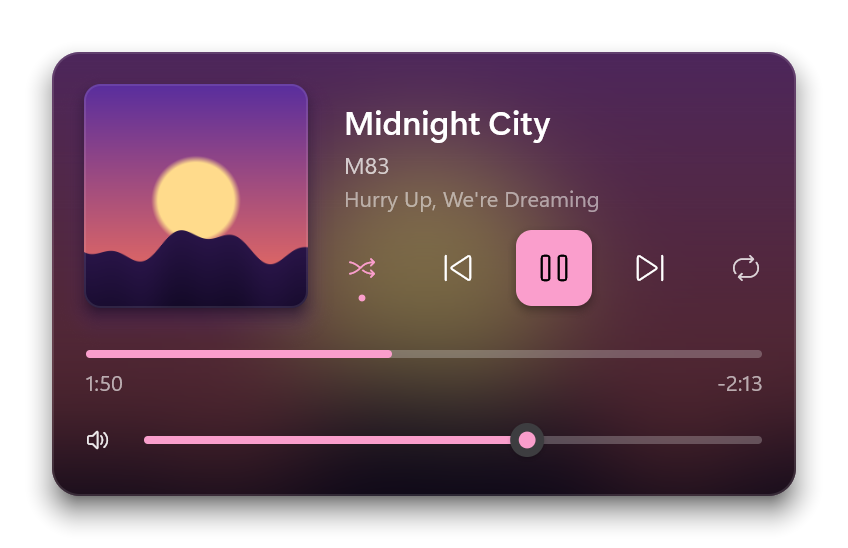
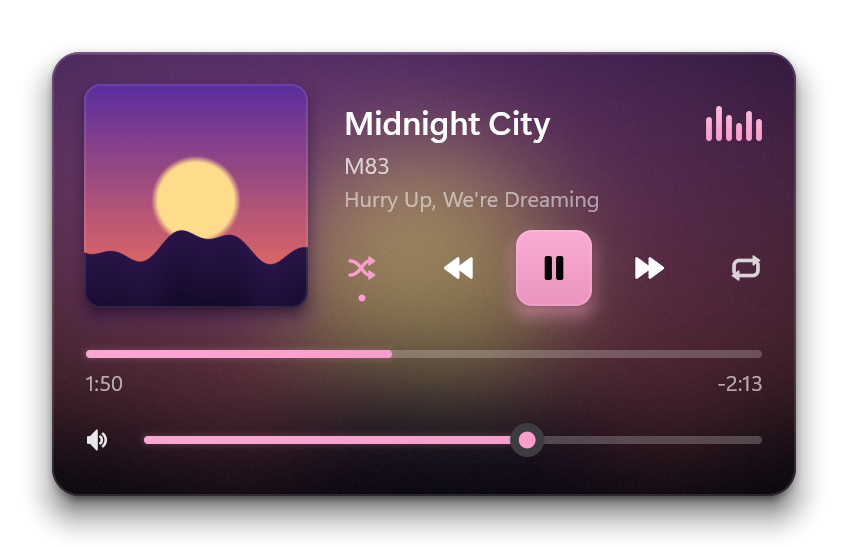
docs: visual novo, fundos da capa, atalhos, arrastar e YouTube Music
README com os fundos fortes do widget, os ícones preenchidos, as barras
no card, os atalhos escolhidos e posicionados, o widget arrastável, o
aleatório/repetir pelo YouTube Music do navegador e o card parado sem
redesenhar (com os números medidos). Capturas e GIF refeitos com o
visual novo.

diff --git a/README.md b/README.md
@@ -23,10 +23,11 @@ No Mac, o mesmo app vive no **notch do MacBook** ([veja a seção do Mac](#mac-m
 </p>
 
 **Widget da barra**: tudo dentro do mesmo fundo — capa, música, indicador e, se quiser, os
-botões (aleatório, anterior, play, próximo, repetir), em formato arredondado, pílula ou reto:
+botões (aleatório, anterior, play, próximo, repetir), em formato arredondado, pílula ou reto,
+com fundo discreto ou tomado pela cor da capa (gradiente ou a própria capa desfocada):
 
 <p align="center">
-  <img src="docs/screenshots/taskbar-widgets.png" width="420" alt="Quatro variações do widget da barra: só a música; com os botões (padrão); em pílula com aleatório e repetir; reto e neutro, com o play só no ícone">
+  <img src="docs/screenshots/taskbar-widgets.png" width="420" alt="Seis variações do widget da barra: só a música; com os botões (padrão); em pílula com aleatório e repetir; reto e neutro, com os ícones de contorno; com o gradiente da capa; em pílula com a capa desfocada">
 </p>
 
 **Card expandido** em três estilos: capa desfocada, cor do álbum e acrílico (desfoca o que está atrás).
@@ -66,28 +67,46 @@ Aviso de teclas com fundo **sólido**, **acrílico** ou na **cor de destaque**, 
   opcionais), com separador, play preenchido ou só ícone e formato do fundo
   (arredondado, pílula, reto); dá para deixá-los só no card. Dá para escolher a
   segunda linha (artista, artista · álbum, álbum ou tempo), o tamanho da capa e
-  do texto, a cor do fundo (neutra, da capa ou de destaque), a opacidade e o
-  contorno. Ao trocar de música, o título novo desliza e a capa nova aparece
-  suavemente (opcional). Com o botão de Widgets do Windows (o do tempo) na barra,
-  o widget fica ao lado dele em vez de por cima, com a barra centralizada ou
+  do texto, a cor do fundo (neutra, da capa ou de destaque, com opacidade), e
+  dois fundos fortes: **gradiente da capa** (tons profundos na barra escura,
+  pastéis na clara, com brilho atrás da capa) e **capa desfocada**, com
+  intensidade própria; o texto e os ícones se ajustam para ficar legíveis, e o
+  fundo troca suavemente junto com a música. Ao trocar de música, o título novo
+  desliza e a capa nova aparece suavemente (opcional). **Arraste o widget** pela
+  barra para mudar o lugar dele (clique simples continua abrindo o card; nunca
+  passa da bandeja nem fica sobre o botão Iniciar; "Restaurar posição" volta ao
+  lado do relógio). Com o botão de Widgets do Windows (o do tempo) na barra, o
+  widget fica ao lado dele em vez de por cima, com a barra centralizada ou
   alinhada à esquerda. No fundo em pílula, a capa fica sempre dentro da ponta
   arredondada.
+- **Ícones preenchidos**: play, pausa, pular, aleatório, repetir e volume
+  desenhados como formas cheias e arredondadas (no card e na barra), no lugar
+  dos ícones finos de contorno; dá para voltar ao contorno do Fluent (Card
+  expandido > Estilo dos ícones).
 - **Card expandido** (clique na música): capa grande, aleatório / anterior / play /
   próximo / repetir, barra de progresso arrastável e volume. O app de origem
   (Spotify, Brave…) fica escondido por padrão; com a opção "Mostrar app de
   origem", aparece como selo (ícone + nome) no card e no "A seguir", e como um
   selo recortado no canto da capa na barra.
-  Fundo **capa desfocada**, **cor do álbum** ou **acrílico** (vidro fosco que
-  desfoca o que está atrás); layout horizontal ou vertical; tema; cor de destaque
-  (capa ou Windows); cantos; formato do play. Mostra também o álbum, quando o
-  player informa. Aleatório e repetir aparecem sempre (apagados nos players que
-  não deixam mudar pelo Windows, como os navegadores; clicar traz o player para a
-  frente, para usar o botão dele)
-  ou só quando o player permite.
-- **Atalhos dos apps de música** (opcional, ligado por padrão): embaixo do card,
-  o ícone de cada player instalado (Spotify, YouTube Music instalado pelo
-  navegador, Apple Music, Deezer, TIDAL, Amazon Music, Media Player, VLC,
-  foobar2000…) para abrir com um clique, inclusive quando nada está tocando.
+  Fundo **capa desfocada** (com luz da cor da capa, vinheta e granulado), **cor
+  do álbum** ou **acrílico** (vidro fosco que desfoca o que está atrás); play com
+  brilho na cor de destaque; mini **barras de áudio** ao lado do título (Barras
+  no card); layout horizontal ou vertical; tema; cor de destaque (capa ou
+  Windows); cantos; formato do play. Mostra também o álbum, quando o player
+  informa. Aleatório e repetir aparecem sempre ou só quando o player permite. No
+  **YouTube Music do navegador** (app instalado pelo Brave/Chrome/Edge ou aba),
+  que não deixa o Windows mudar isso, o Taskbeat aperta os botões da própria
+  página, sem trazer a janela para a frente, e lê o estado do repetir (desativado
+  → tudo → uma); o aleatório do YouTube Music embaralha a fila de novo a cada
+  clique. Nos outros sites os botões ficam apagados e o clique traz o player para
+  a frente.
+- **Atalhos dos apps de música** (opcional, ligado por padrão): o ícone de cada
+  player instalado (Spotify, YouTube Music instalado pelo navegador, Apple Music,
+  Deezer, TIDAL, Amazon Music, Media Player, VLC, foobar2000…) para abrir com um
+  clique, inclusive quando nada está tocando. Embaixo do card, dentro do widget
+  na barra ou nos dois; em Card expandido > Apps nos atalhos dá para ligar só os
+  que você usa e arrastar para mudar a ordem (no card também dá para arrastar os
+  ícones).
 - **Ícones animados** (opcional, ligado por padrão): play e pausa trocam com um
   pequeno salto, anterior/próximo dão um empurrão para o lado, aleatório pulsa,
   repetir dá uma volta e o volume chacoalha ao ficar mudo; no card e na barra
@@ -120,9 +139,9 @@ Aviso de teclas com fundo **sólido**, **acrílico** ou na **cor de destaque**, 
 
 Funciona com qualquer player que publique no painel de mídia do Windows (SMTC):
 Spotify, YouTube / YouTube Music no navegador, Apple Music, Deezer, TIDAL, VLC,
-Media Player… Aleatório/repetir só aparecem em players que os expõem ao Windows
-(ex.: Spotify, Media Player). Navegadores (Brave, Chrome, Edge, Firefox) não expõem
-esses comandos, então os botões somem nesse caso.
+Media Player… Aleatório/repetir vêm do Windows nos players que os expõem (ex.:
+Spotify, Media Player). Navegadores (Brave, Chrome, Edge, Firefox) não expõem
+esses comandos; no YouTube Music o Taskbeat usa os botões da página (veja acima).
 
 ## Desempenho
 
@@ -131,6 +150,7 @@ Pensado para PCs modestos (medido no build release, i5-10400F):
 | Situação | CPU | RAM (working set) |
 |---|---|---|
 | Música pausada, padrão | ~0,2% de 1 núcleo | ~5 MB após assentar |
+| Card aberto, parado | ~0,6% de 1 núcleo (antes ~78%: era redesenhado a cada quadro) | ~16 MB |
 | Configurações abertas, paradas | ~0,2–2% de 1 núcleo (conforme a prévia; pausada, ~0,2%) | ~30 MB (volta a ~8 MB ao fechar) |
 | Configurações rolando (60 fps) | ~10% de 1 núcleo | — |
 | Barras dinâmicas ligadas | ~0,2–0,5% de 1 núcleo | ~12 MB |
@@ -140,7 +160,8 @@ Como:
 - Captura de áudio (WASAPI) **só com o visualizador ligado**.
 - Mídia **orientada a eventos** do Windows (troca de sessão/música/play-pause), com checagem de segurança a cada 2 s.
 - Threads de segundo plano em **EcoQoS** + prioridade abaixo do normal (Windows 11 usa núcleos/frequências econômicos).
-- O widget **não redesenha quando nada muda**; repouso a 4 fps; 30 fps só para o indicador/letreiro; animações no **ritmo do monitor** (vblank, sem engasgos), e só enquanto animam.
+- O widget e o card **não redesenham quando nada muda**; repouso a 4 fps; 30 fps só para o indicador/letreiro; animações no **ritmo do monitor** (vblank, sem engasgos), e só enquanto animam.
+- Fundos (gradiente da capa, capa desfocada, sombras do card) ficam em **camadas guardadas**: os quadros só copiam a camada e desenham o que muda; os ícones em vetor viram máscaras guardadas por tamanho.
 - Cópias de dados e consultas só quando algo muda (versão da mídia, tema por mensagem do sistema, volume só com o card aberto).
 - Memória de inicialização e da tela de configurações devolvida ao Windows.
 - Configurações: a coluna de opções é desenhada uma vez e só copiada ao rolar;
@@ -157,7 +178,8 @@ Como:
 |---|---|---|
 | Som do player (barras) | WASAPI *loopback* do processo do player (Windows 10 2004+); sem ele, do sistema | `src/audio.rs` |
 | Atalhos dos apps de música | Pasta Aplicativos do shell (`shell:AppsFolder`) | `src/launchers.rs` |
-| Lugar do botão de Widgets na barra | UI Automation (`WidgetsButton`) | `src/taskbar.rs` |
+| Lugar do botão de Widgets na barra (e do Iniciar, ao arrastar o widget) | UI Automation (`WidgetsButton`, `StartButton`) | `src/taskbar.rs` |
+| Aleatório/repetir no YouTube Music do navegador | UI Automation nos botões da página do player (classes `shuffle`/`repeat` da barra do player; estado pelo nome do botão) | `src/webplayer.rs` |
 | Música, capa, controles, linha do tempo, eventos | `GlobalSystemMediaTransportControlsSessionManager` | `src/media.rs` |
 | Nome/ícone do app de origem | Pasta Aplicativos do shell (AUMID) → ícone do .exe | `src/appicon.rs` |
 | Volume | `IAudioEndpointVolume` | `src/volume.rs` |
@@ -245,6 +267,10 @@ antes de abrir o app grava cada leitura do player e cada troca de faixa
 
 - Só a barra do monitor principal.
 - A tela de configurações ainda não tem navegação por teclado.
+- Aleatório/repetir no YouTube Music do navegador dependem dos botões da página:
+  com a janela do player totalmente coberta por outra (ou minimizada), o nome do
+  botão de repetir, de onde o estado é lido, só se atualiza quando a página volta
+  a aparecer; até lá o card mostra o estado esperado.
 
 ## Mac (MacBook)
 
